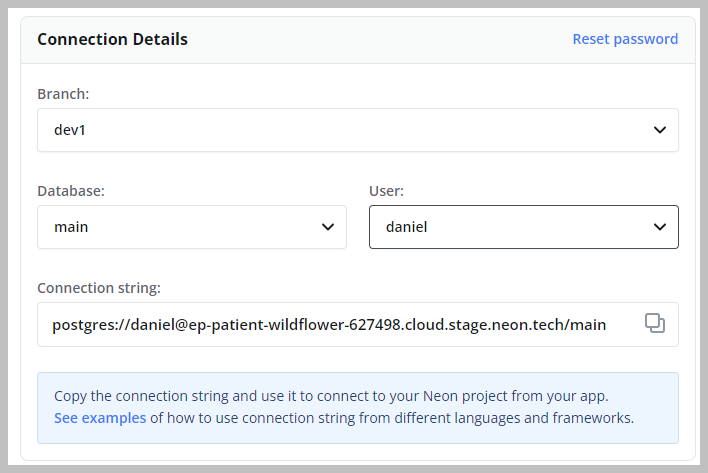
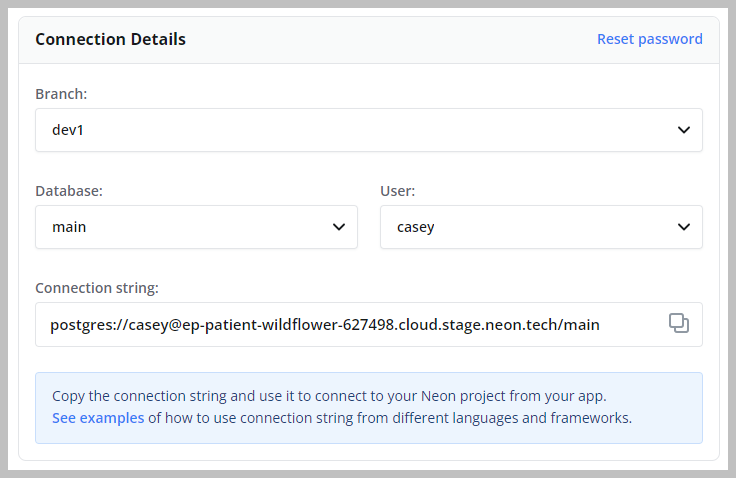
Revisions.
Revisions. Content and screen captures.

diff --git a/content/docs/get-started-with-neon/branching-quickstart.md b/content/docs/get-started-with-neon/branching-quickstart.md
@@ -1,7 +1,7 @@
 ---
 title: Branching quickstart
 enableTableOfContents: true
-isDraft: true
+isDraft: false
 ---
 
 This topic describes how to get started with Neon's branching feature, which allows you to branch your data in the same way that you branch your code.
@@ -63,7 +63,7 @@ You can obtain a branch connection string from the **Connection Details** widget
 4. Add your password to the connection string as shown below, and connect with `psql`:
 
   ```bash
-  psql postgres://<user>:<password>@ep-snowy-butterfly-311850.cloud.neon.tech/main
+  psql postgres://casey:<password>@ep-snowy-butterfly-311850.cloud.neon.tech/main
   ```
 
 If you want to connect to a branch from an application, the **Connection Details** widget on the project **Dashboard** also provides connection details for various languages and frameworks.
